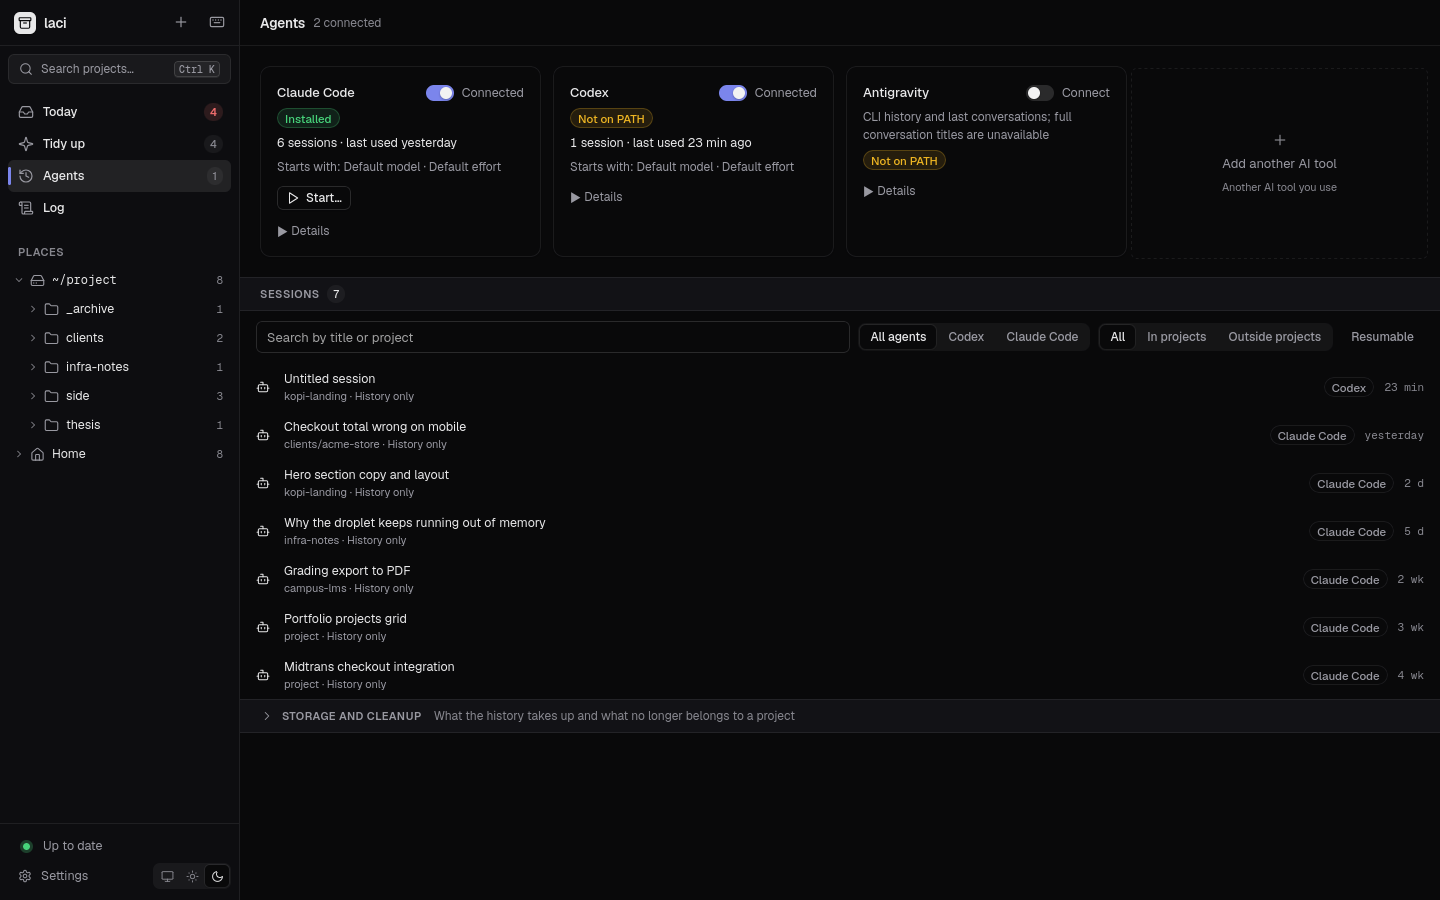
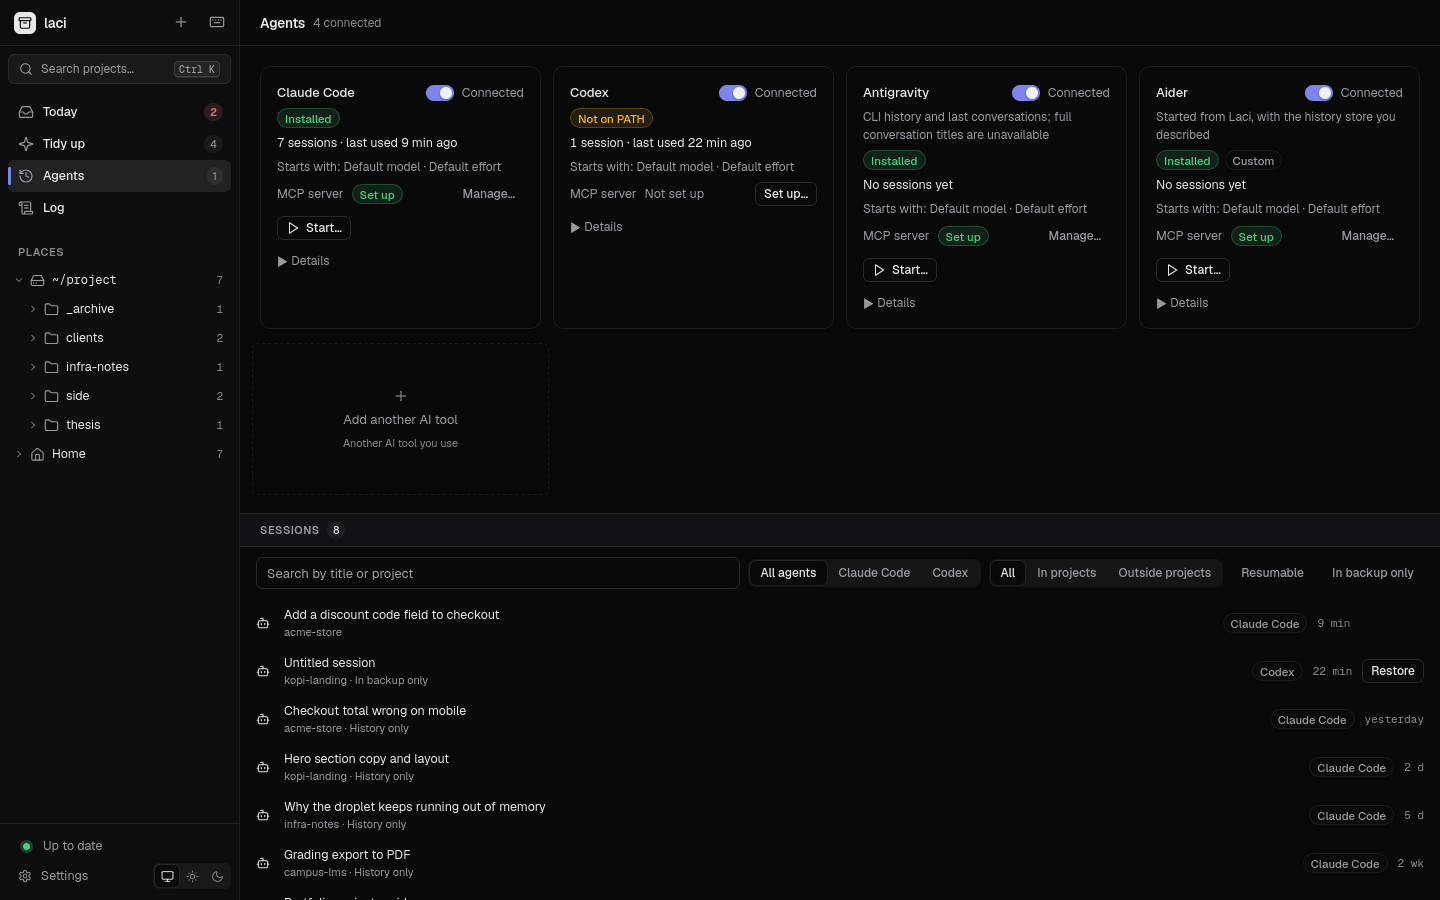
chore: prepare 2.2.0 release

diff --git a/README.md b/README.md
@@ -116,9 +116,31 @@ A connector tells laci where an AI tool keeps its history, so it shows on the ri
 
 Codex titles use its title index, then a bounded first user message, then a short session ID. Child sessions appear under their parent. Home sessions stay global and can be inspected and resumed without a matched project. Antigravity uses `agy` and its last-conversation index; it does not expose full titles or resumability for history-only records. Laci does not edit provider title/model settings.
 
-Claude Code deletes session logs after a retention period. **Back up logs now** copies agent logs to `~/.local/share/laci/history`; Today then shows when the backup last ran and how many sessions it keeps, with **Open backup folder**. Automatic backup is optional and runs at most once an hour, only when a session changed. Nothing is ever removed from the backup.
+Claude Code, Codex and Antigravity are built in. Any other tool can be added with its command name in **Add another AI tool**; how it takes a first prompt, continues its last conversation and picks a model is optional. A tool does not need a history store that Laci can read. The same description can be written in `~/.config/laci/config.json`:
 
-![Agents: connected tools, sessions per project, and history whose folder is gone](docs/screenshots/agents.png)
+```json
+{
+  "custom": [
+    {
+      "id": "custom-aider",
+      "name": "Aider",
+      "link": { "kind": "inside", "path": ".aider.chat.history.md" },
+      "agent": {
+        "command": "aider",
+        "prompt": ["--message", "{prompt}"],
+        "model": ["--model", "{model}"],
+        "models": [{ "id": "sonnet" }]
+      }
+    }
+  ]
+}
+```
+
+`{prompt}` and `{model}` stand for the value. Each list element is passed as one argument, never through a shell. `link` can be left out for a tool whose history Laci cannot read.
+
+Claude Code deletes session logs after a retention period. **Back up logs now** copies agent logs to `~/.local/share/laci/history`; Today then shows when the backup last ran and how many sessions it keeps, with **Open backup folder**. Automatic backup is optional and runs at most once an hour, only when a session changed. Nothing is ever removed from the backup. Sessions a tool has deleted stay listed from the backup, marked "In backup only", and can be restored.
+
+![Agents: each tool with its MCP setup, your own tool beside the built-in ones, and one list of sessions](docs/screenshots/agents.png)
 
 ### New project
 
@@ -144,7 +166,7 @@ laci watches your project folders, each project's files and git state, the agent
 
 ### For agents: MCP
 
-laci ships an [MCP](https://modelcontextprotocol.io) server, so Claude Code, Codex and other agents can ask laci what exists, and move, archive or create projects the safe way instead of using `ls` and `mv`. What they change shows up in the Log. See [Agents](#agents-mcp).
+laci ships an [MCP](https://modelcontextprotocol.io) server, so Claude Code, Codex, Antigravity and other agents can ask laci what exists, and move, archive or create projects the safe way instead of using `ls` and `mv`. What they change shows up in the Log. See [Agents](#agents-mcp).
 
 ### In the terminal
 
@@ -206,10 +228,13 @@ laci json      # the complete scan as JSON
 
 ### Agents (MCP)
 
+The Agents page can set this up for you. Each agent card shows whether Laci's MCP server is set up: "Set up", "Not set up", "Points elsewhere" or "Switched off". **Set up…** shows the exact command or JSON first, then applies it. The steps below are the manual fallback.
+
 Register the installed binary as a stdio server. The MCP path runs without creating a window.
 
 ```sh
 claude mcp add laci --scope user -- /home/you/.local/bin/laci mcp
+agy mcp add laci /home/you/.local/bin/laci mcp
 ```
 
 ```toml
@@ -218,6 +243,8 @@ claude mcp add laci --scope user -- /home/you/.local/bin/laci mcp
 command = "/home/you/.local/bin/laci"
 args = ["mcp"]
 ```
+
+Codex can also add it with a command: `codex mcp add laci -- /home/you/.local/bin/laci mcp`.
 
 Then ask your agent things like *"which projects could lose work?"*, *"archive dummy2"*, *"move ~/Downloads/foo into ~/project/clients"* or *"start a new project called shop-api in ~/project/clients"*.
 

diff --git a/docs/ARCHITECTURE.md b/docs/ARCHITECTURE.md
@@ -21,6 +21,7 @@ PTY sessions belong to the Rust process. Each tab has its shell, input writer, r
 | `~/.local/share/laci/journal/` | v1 move/rewrite/metadata steps and completion state |
 | `~/.local/share/laci/backup/` | Original rewritten bytes and timestamps for undo |
 | `~/.local/share/laci/activity.jsonl` | Existing Log entries, supersession keys and undo records |
+| `~/.local/share/laci/mcp-backups/` | Copy of an agent's settings file, taken before Laci changes its MCP setup |
 | `~/.local/share/laci/lock` | Cross-process PID lock compatible with v1 |
 | `~/.cache/laci/` | Disposable parser/snapshot caches; v2 cache names are separate |
 
@@ -50,13 +51,19 @@ The desktop creates one local window and uses Tauri IPC with a local-content pol
 
 `laci mcp` serves the 14 compatible v1 tool names plus `delete_project` over stdio without starting GTK or a window. Read calls reuse a recent snapshot. Move/archive/Trash/Tidy/create/undo calls return a preview until `confirm: true` is supplied. Arguments a tool does not list are rejected. Confirmed destructive operations refresh the scan and use the same engine as the desktop.
 
+## Providers and MCP setup
+
+`providers.rs` holds one description per agent Laci can start: its program, argument templates, models, effort levels and MCP settings. The built-ins are Claude Code, Codex and Antigravity. The user's own tools from `config.json` are read beside them.
+
+`mcp_setup.rs` tells whether an agent knows Laci's MCP server, and adds or removes it. Reading is passive. A change runs the agent's own command, or edits its JSON settings file after copying that file to the backup folder.
+
 ## Session launch and creation
 
 Sessions normalize provider, UUID, title provenance, cwd, parent, source kind, update time and resume capability separately from the store/file identity. Codex metadata uses session/turn cwd, not tool-call paths. Title-index changes invalidate the title cache. Antigravity's shared last-conversation index is read-only and excluded from relocation and cleanup plans.
 
 Transcript head parsing is bounded to 8 MiB and 20,000 records. A bounded recent window updates display/resume metadata when the head is incomplete, preserving identity, parent and first-message facts. Latest cwd is separate from the complete owning-cwd set. Parse/read/traversal failures and bounds mark ownership incomplete, including Claude folder aggregates; a tail window never proves cleanup ownership. The cache schema was advanced so earlier incomplete facts cannot authorize cleanup.
 
-The launch resolver accepts a provider, optional session ID, project path, prompt, model, effort and terminal target. IPC resolves session membership from the snapshot and verifies an active connector. Internal PTYs receive executable/argv/cwd directly; external terminals use the same resolved arguments with quoted transport boundaries. Explicit model discovery is cached and does not start a conversation. Unsupported overrides fail without silently selecting another model or provider.
+The launch resolver (`launch.rs`) accepts a provider, optional session ID, project path, prompt, model, effort and terminal target. It builds each command from the provider's description: one argument per template element, and no shell. IPC resolves session membership from the snapshot and verifies an active connector. Internal PTYs receive executable/argv/cwd directly; external terminals use the same resolved arguments with quoted transport boundaries. Explicit model discovery is cached and does not start a conversation. Unsupported overrides fail without silently selecting another model or provider.
 
 Desktop creation jobs run outside the snapshot mutex. They serialize filesystem creation through the existing process lock, bound output in memory, and fence mutations and stale snapshots from start through completion, failure or cancellation. Generator cancellation signals only its owned process group and reaps it before shutdown. Failed scaffolds stay on disk. Metadata, Git initialization and optional agent launch follow successful generation. Retrying a failed agent launch never repeats creation or remote operations.
 

diff --git a/CHANGELOG.md b/CHANGELOG.md
@@ -4,6 +4,26 @@ What changed in laci, newest first. The format follows [Keep a Changelog](https:
 
 ## [Unreleased]
 
+## [2.2.0] - 2026-10-08
+
+Laci works with any agent, not only Claude Code.
+
+### Added
+
+- **Provider registry.** Each agent Laci can start is described by its program, how its arguments are built, its models and effort levels, and where it keeps its MCP servers. Claude Code, Codex and Antigravity are built in.
+- **Your own agents.** A tool described in `config.json`, or in "Add another AI tool" under "Something else", can be started from Laci like the built-in ones. Only a command name is needed. A history store is optional.
+- **MCP setup in the app.** Each agent card on the Agents page shows whether Laci's MCP server is set up. "Set up…" shows the exact command or JSON first, then applies it. Laci keeps a copy of the agent's settings file in `~/.local/share/laci/mcp-backups/` before a change, and writes the change to the Log.
+- **Continue the last conversation.** The Start dialog offers this for agents that support it: Claude Code, Codex, Antigravity, and your own tools when described.
+- **Antigravity effort levels.** Low, medium, high, xhigh and max can be chosen, also with the default model.
+- **Sessions only the backup holds.** A session its tool has deleted is listed from Laci's backup, marked "In backup only". Restore puts it back where the tool keeps it. Works for Claude Code and Codex sessions.
+
+### Changed
+
+- The "deletes session logs after N days" warning comes from each agent's description, not only Claude Code. The backup status counts sessions from every connected history store.
+- When an agent cannot list its models, the Start dialog shows the agent's own reason, such as a request to sign in first.
+- On the Agents page the built-in agents come first, then your own tools.
+- Gemini CLI stays a history-only connector. Google replaced it with Antigravity CLI for personal accounts in June 2026, so the agent Laci starts is Antigravity. Old Gemini CLI logs can still be read.
+
 ## [2.1.0] - 2026-10-08
 
 Today, Health, backup and agent management, reworked after the 2.0.0 audit.
